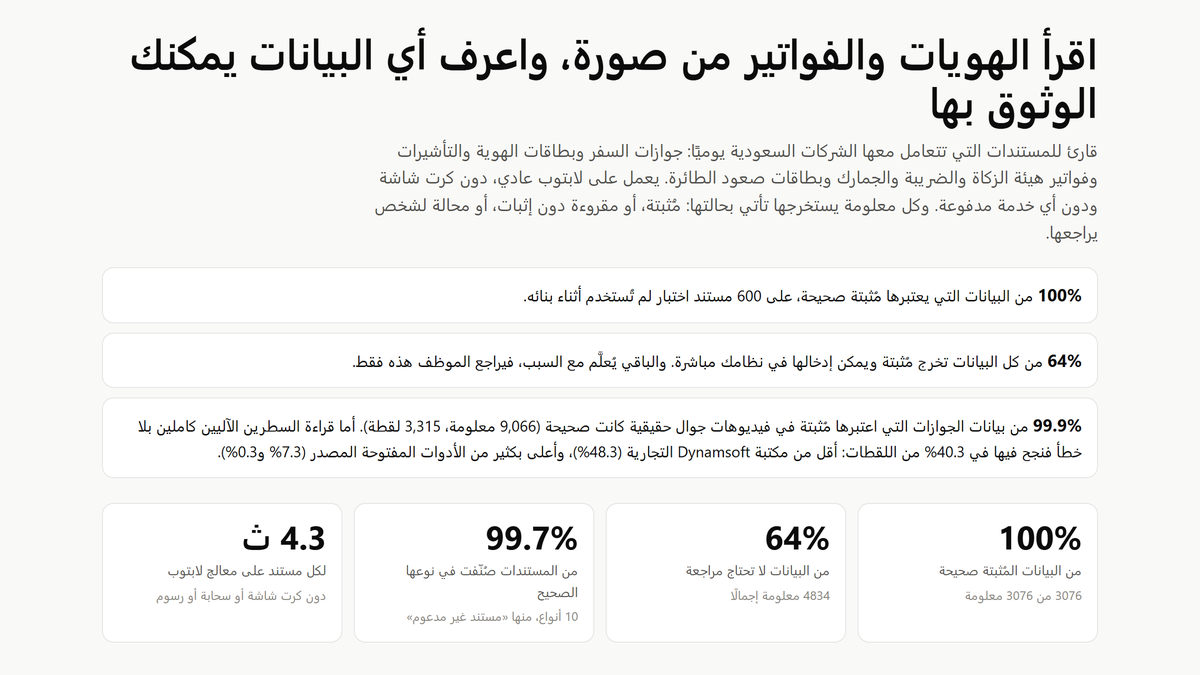
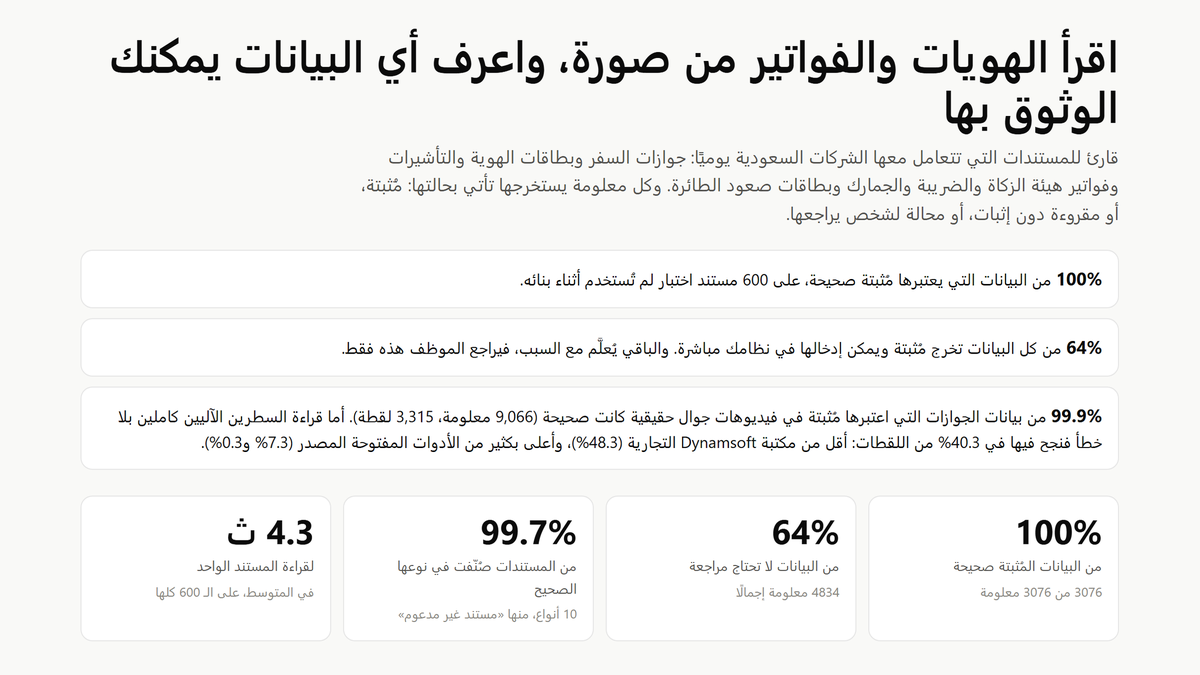
Publish: document reader page update

diff --git a/ar/projects/document-reader/index.html b/ar/projects/document-reader/index.html
@@ -80,7 +80,7 @@
   <p class="stat-label">من بيانات الجوازات المُثبتة صحيحة في فيديوهات جوال حقيقية</p>
 <p class="stat-note">9,066 معلومة من 3,315 لقطة</p></div><div class="stat">
   <p class="stat-value"><bdi dir="rtl">4.3 ث</bdi></p>
-  <p class="stat-label">لكل مستند على لابتوب عادي، دون أي خدمة مدفوعة</p>
+  <p class="stat-label">لقراءة المستند الواحد في المتوسط</p>
 </div>      </div>
     </div>
   </header>
@@ -251,7 +251,7 @@
       <details class="tech">
         <summary><span>التفاصيل التقنية</span><span class="muted small">للمهندسين ومسؤولي التوظيف</span></summary>
         <ul class="tech-stack" role="list"><li>Python</li><li>OpenCV</li><li>RapidOCR</li><li>ONNX Runtime</li><li>PP-OCRv6</li><li>zxing-cpp</li><li>Playwright</li><li>pytest</li></ul>
-        <ul class="tech-points"><li>قراءة النص على المعالج بمكتبة RapidOCR: نموذج PP-OCRv6 للكشف والتعرف اللاتيني، وPP-OCRv5 للعربية (PP-OCRv6 لا يدعم العربية بعد). كل سطر يحتفظ بالقراءتين، وفي المنطقة الآلية تختار أرقام التحقق بينهما.</li><li>معايير مطبّقة من مواصفاتها: المنطقة الآلية ICAO 9303 (TD1 وTD2 وTD3 وMRV-A/B)، ورمز QR للفاتورة الإلكترونية (TLV، المرحلتان 1 و2)، وبطاقات الصعود IATA BCBP. وتصحيح المنظور بحواف Canny والبحث عن شكل رباعي (OpenCV).</li><li>رقم التحقق لا يرى الفرق بين G و6 وS و8 وL و1 (قيم بينها 10)، وفي الصور الحقيقية قد يلغي خطآن أحدهما الآخر. لذلك لا يُثبت رقم الوثيقة إلا إذا طابق الرقم المطبوع في الصفحة. وللحالتين اختبارات.</li><li>بيانات الاختبار: 14 تصميم HTML تُرسم بمتصفح Chrome ثم تُشوَّه لتشبه المسح الضوئي وصور الجوال (منظور واهتزاز وظل ولمعان وضغط)، مع إبعاد 3 تصميمات. والصور الحقيقية: معيار MIDV-500 المنقّح (3,315 لقطة).</li></ul>
+        <ul class="tech-points"><li>قراءة النص بمكتبة RapidOCR: نموذج PP-OCRv6 للكشف والتعرف اللاتيني، وPP-OCRv5 للعربية (PP-OCRv6 لا يدعم العربية بعد). كل سطر يحتفظ بالقراءتين، وفي المنطقة الآلية تختار أرقام التحقق بينهما.</li><li>معايير مطبّقة من مواصفاتها: المنطقة الآلية ICAO 9303 (TD1 وTD2 وTD3 وMRV-A/B)، ورمز QR للفاتورة الإلكترونية (TLV، المرحلتان 1 و2)، وبطاقات الصعود IATA BCBP. وتصحيح المنظور بحواف Canny والبحث عن شكل رباعي (OpenCV).</li><li>رقم التحقق لا يرى الفرق بين G و6 وS و8 وL و1 (قيم بينها 10)، وفي الصور الحقيقية قد يلغي خطآن أحدهما الآخر. لذلك لا يُثبت رقم الوثيقة إلا إذا طابق الرقم المطبوع في الصفحة. وللحالتين اختبارات.</li><li>بيانات الاختبار: 14 تصميم HTML تُرسم بمتصفح Chrome ثم تُشوَّه لتشبه المسح الضوئي وصور الجوال (منظور واهتزاز وظل ولمعان وضغط)، مع إبعاد 3 تصميمات. والصور الحقيقية: معيار MIDV-500 المنقّح (3,315 لقطة).</li></ul>
         <div class="actions">
 <a class="btn btn-ghost" href="https://yahia20.github.io/ksa-document-reader/" target="_blank" rel="noopener"><svg class="icon" viewBox="0 0 24 24" fill="none" stroke="currentColor" stroke-width="1.75" stroke-linecap="round" stroke-linejoin="round" aria-hidden="true" focusable="false"><circle cx="12" cy="12" r="3"/><path d="M6.3 6.3a8 8 0 0 0 0 11.4M17.7 6.3a8 8 0 0 1 0 11.4"/></svg> افتح صفحة النتائج (عربي وإنجليزي) <svg class="icon" viewBox="0 0 24 24" fill="none" stroke="currentColor" stroke-width="1.75" stroke-linecap="round" stroke-linejoin="round" aria-hidden="true" focusable="false"><path d="M14 4h6v6M20 4l-9 9M18 14v5a1 1 0 0 1-1 1H5a1 1 0 0 1-1-1V7a1 1 0 0 1 1-1h5"/></svg></a><a class="btn btn-ghost" href="https://github.com/Yahia20/ksa-document-reader" target="_blank" rel="noopener"><svg class="icon" viewBox="0 0 24 24" fill="none" stroke="currentColor" stroke-width="1.75" stroke-linecap="round" stroke-linejoin="round" aria-hidden="true" focusable="false"><path d="M9 19c-4 1.3-4-2-6-2.5M15 21v-3.5c0-1 .1-1.4-.5-2 2.8-.3 5.5-1.4 5.5-6a4.6 4.6 0 0 0-1.3-3.2 4.2 4.2 0 0 0-.1-3.2s-1.1-.3-3.5 1.3a12 12 0 0 0-6.2 0C6.5 2.8 5.4 3.1 5.4 3.1a4.2 4.2 0 0 0-.1 3.2A4.6 4.6 0 0 0 4 9.5c0 4.6 2.7 5.7 5.5 6-.6.6-.6 1.2-.5 2V21"/></svg> الكود والاختبارات على GitHub <svg class="icon" viewBox="0 0 24 24" fill="none" stroke="currentColor" stroke-width="1.75" stroke-linecap="round" stroke-linejoin="round" aria-hidden="true" focusable="false"><path d="M14 4h6v6M20 4l-9 9M18 14v5a1 1 0 0 1-1 1H5a1 1 0 0 1-1-1V7a1 1 0 0 1 1-1h5"/></svg></a>        </div>
       </details>

diff --git a/en/projects/document-reader/index.html b/en/projects/document-reader/index.html
@@ -80,7 +80,7 @@
   <p class="stat-label">of verified passport fields correct on real phone video</p>
 <p class="stat-note">9,066 fields from 3,315 frames</p></div><div class="stat">
   <p class="stat-value"><bdi dir="ltr">4.3 s</bdi></p>
-  <p class="stat-label">per document on an ordinary laptop, no paid service</p>
+  <p class="stat-label">to read a document, on average</p>
 </div>      </div>
     </div>
   </header>
@@ -251,7 +251,7 @@
       <details class="tech">
         <summary><span>Technical details</span><span class="muted small">For engineers and recruiters</span></summary>
         <ul class="tech-stack" role="list"><li>Python</li><li>OpenCV</li><li>RapidOCR</li><li>ONNX Runtime</li><li>PP-OCRv6</li><li>zxing-cpp</li><li>Playwright</li><li>pytest</li></ul>
-        <ul class="tech-points"><li>OCR on CPU with RapidOCR: PP-OCRv6 small for detection and Latin recognition, PP-OCRv5 Arabic for Arabic (PP-OCRv6 does not cover Arabic yet). Each line keeps both readings, and on the MRZ the check digits choose between them.</li><li>Standards implemented from the specifications: ICAO 9303 MRZ (TD1, TD2, TD3, MRV-A/B), ZATCA e-invoice QR (TLV, phases 1 and 2), IATA BCBP boarding passes. Perspective correction with Canny edges and a four-corner contour search (OpenCV).</li><li>A check digit is blind to G/6, S/8 and L/1 (values 10 apart), and on real photos two misreads can cancel out. So a document number is verified only when the printed number on the page matches. Both cases have regression tests.</li><li>Test data: 14 HTML designs rendered with headless Chrome, then degraded to scans and phone photos (perspective, blur, shadow, glare, JPEG); 3 designs held out. Real photos: the curated MIDV-500 MRZ benchmark (3,315 frames).</li></ul>
+        <ul class="tech-points"><li>OCR with RapidOCR: PP-OCRv6 small for detection and Latin recognition, PP-OCRv5 Arabic for Arabic (PP-OCRv6 does not cover Arabic yet). Each line keeps both readings, and on the MRZ the check digits choose between them.</li><li>Standards implemented from the specifications: ICAO 9303 MRZ (TD1, TD2, TD3, MRV-A/B), ZATCA e-invoice QR (TLV, phases 1 and 2), IATA BCBP boarding passes. Perspective correction with Canny edges and a four-corner contour search (OpenCV).</li><li>A check digit is blind to G/6, S/8 and L/1 (values 10 apart), and on real photos two misreads can cancel out. So a document number is verified only when the printed number on the page matches. Both cases have regression tests.</li><li>Test data: 14 HTML designs rendered with headless Chrome, then degraded to scans and phone photos (perspective, blur, shadow, glare, JPEG); 3 designs held out. Real photos: the curated MIDV-500 MRZ benchmark (3,315 frames).</li></ul>
         <div class="actions">
 <a class="btn btn-ghost" href="https://yahia20.github.io/ksa-document-reader/" target="_blank" rel="noopener"><svg class="icon" viewBox="0 0 24 24" fill="none" stroke="currentColor" stroke-width="1.75" stroke-linecap="round" stroke-linejoin="round" aria-hidden="true" focusable="false"><circle cx="12" cy="12" r="3"/><path d="M6.3 6.3a8 8 0 0 0 0 11.4M17.7 6.3a8 8 0 0 1 0 11.4"/></svg> Open the results page (English and Arabic) <svg class="icon" viewBox="0 0 24 24" fill="none" stroke="currentColor" stroke-width="1.75" stroke-linecap="round" stroke-linejoin="round" aria-hidden="true" focusable="false"><path d="M14 4h6v6M20 4l-9 9M18 14v5a1 1 0 0 1-1 1H5a1 1 0 0 1-1-1V7a1 1 0 0 1 1-1h5"/></svg></a><a class="btn btn-ghost" href="https://github.com/Yahia20/ksa-document-reader" target="_blank" rel="noopener"><svg class="icon" viewBox="0 0 24 24" fill="none" stroke="currentColor" stroke-width="1.75" stroke-linecap="round" stroke-linejoin="round" aria-hidden="true" focusable="false"><path d="M9 19c-4 1.3-4-2-6-2.5M15 21v-3.5c0-1 .1-1.4-.5-2 2.8-.3 5.5-1.4 5.5-6a4.6 4.6 0 0 0-1.3-3.2 4.2 4.2 0 0 0-.1-3.2s-1.1-.3-3.5 1.3a12 12 0 0 0-6.2 0C6.5 2.8 5.4 3.1 5.4 3.1a4.2 4.2 0 0 0-.1 3.2A4.6 4.6 0 0 0 4 9.5c0 4.6 2.7 5.7 5.5 6-.6.6-.6 1.2-.5 2V21"/></svg> Code and tests on GitHub <svg class="icon" viewBox="0 0 24 24" fill="none" stroke="currentColor" stroke-width="1.75" stroke-linecap="round" stroke-linejoin="round" aria-hidden="true" focusable="false"><path d="M14 4h6v6M20 4l-9 9M18 14v5a1 1 0 0 1-1 1H5a1 1 0 0 1-1-1V7a1 1 0 0 1 1-1h5"/></svg></a>        </div>
       </details>
